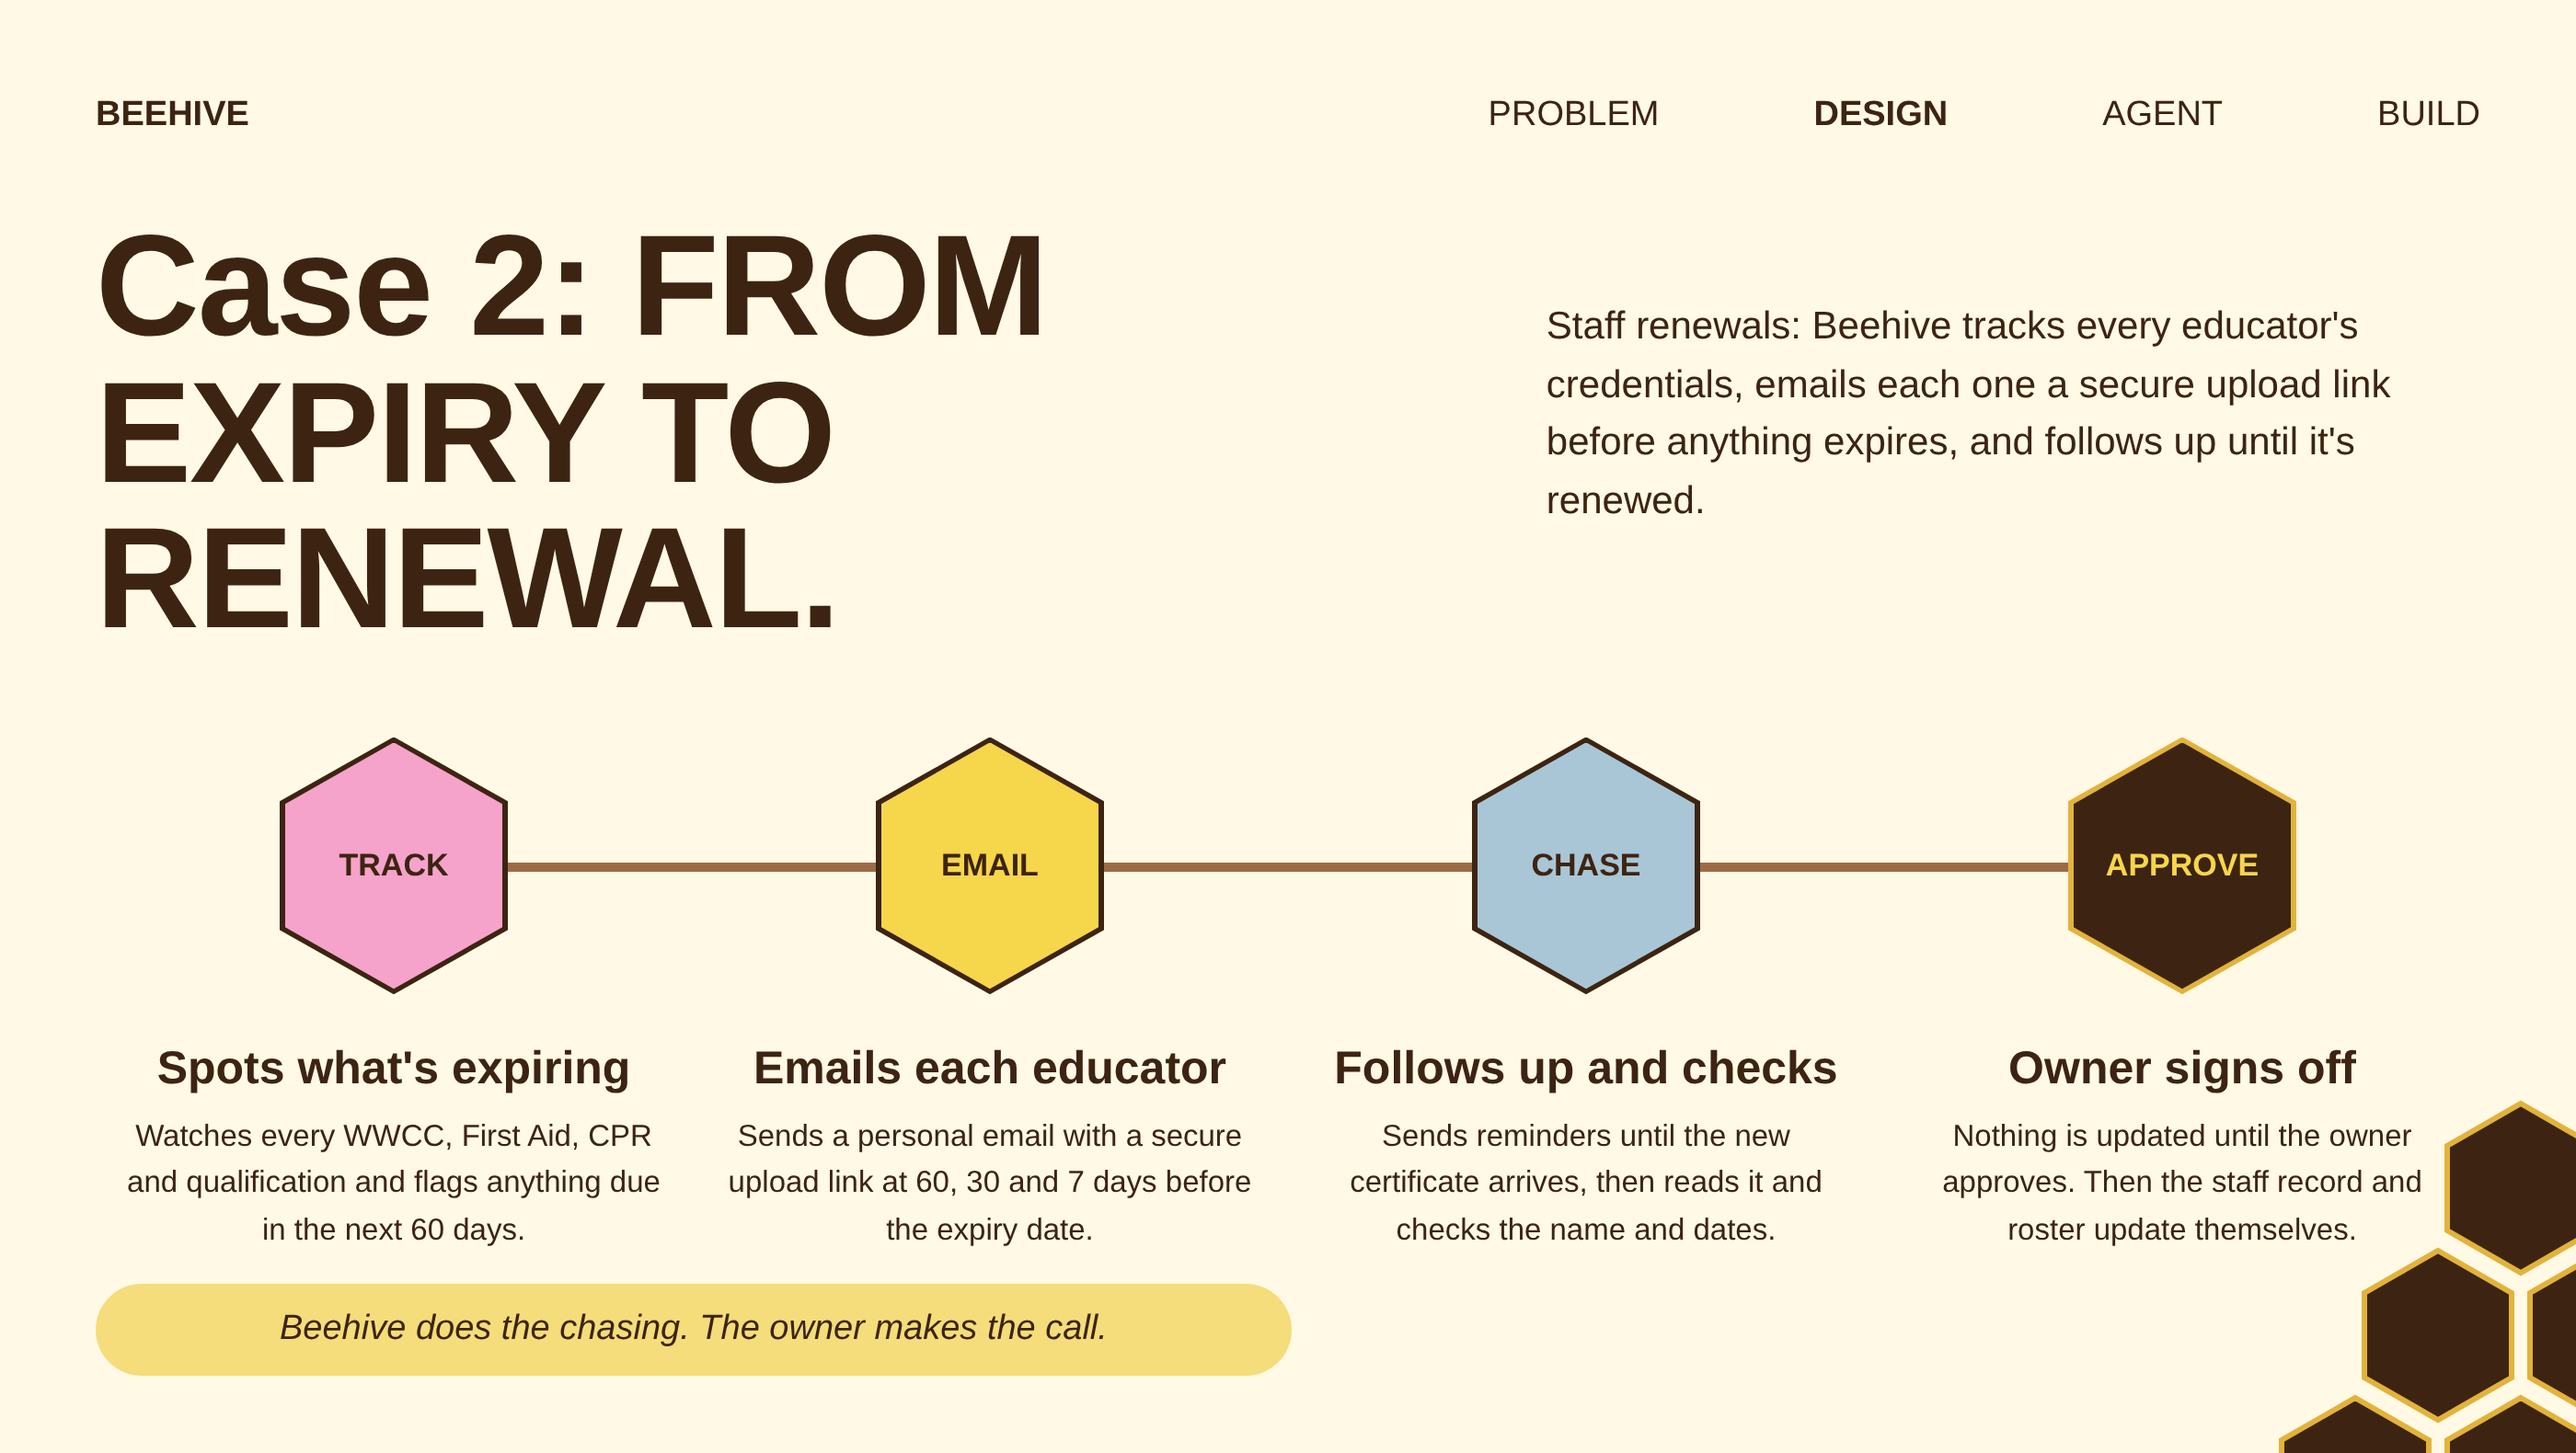
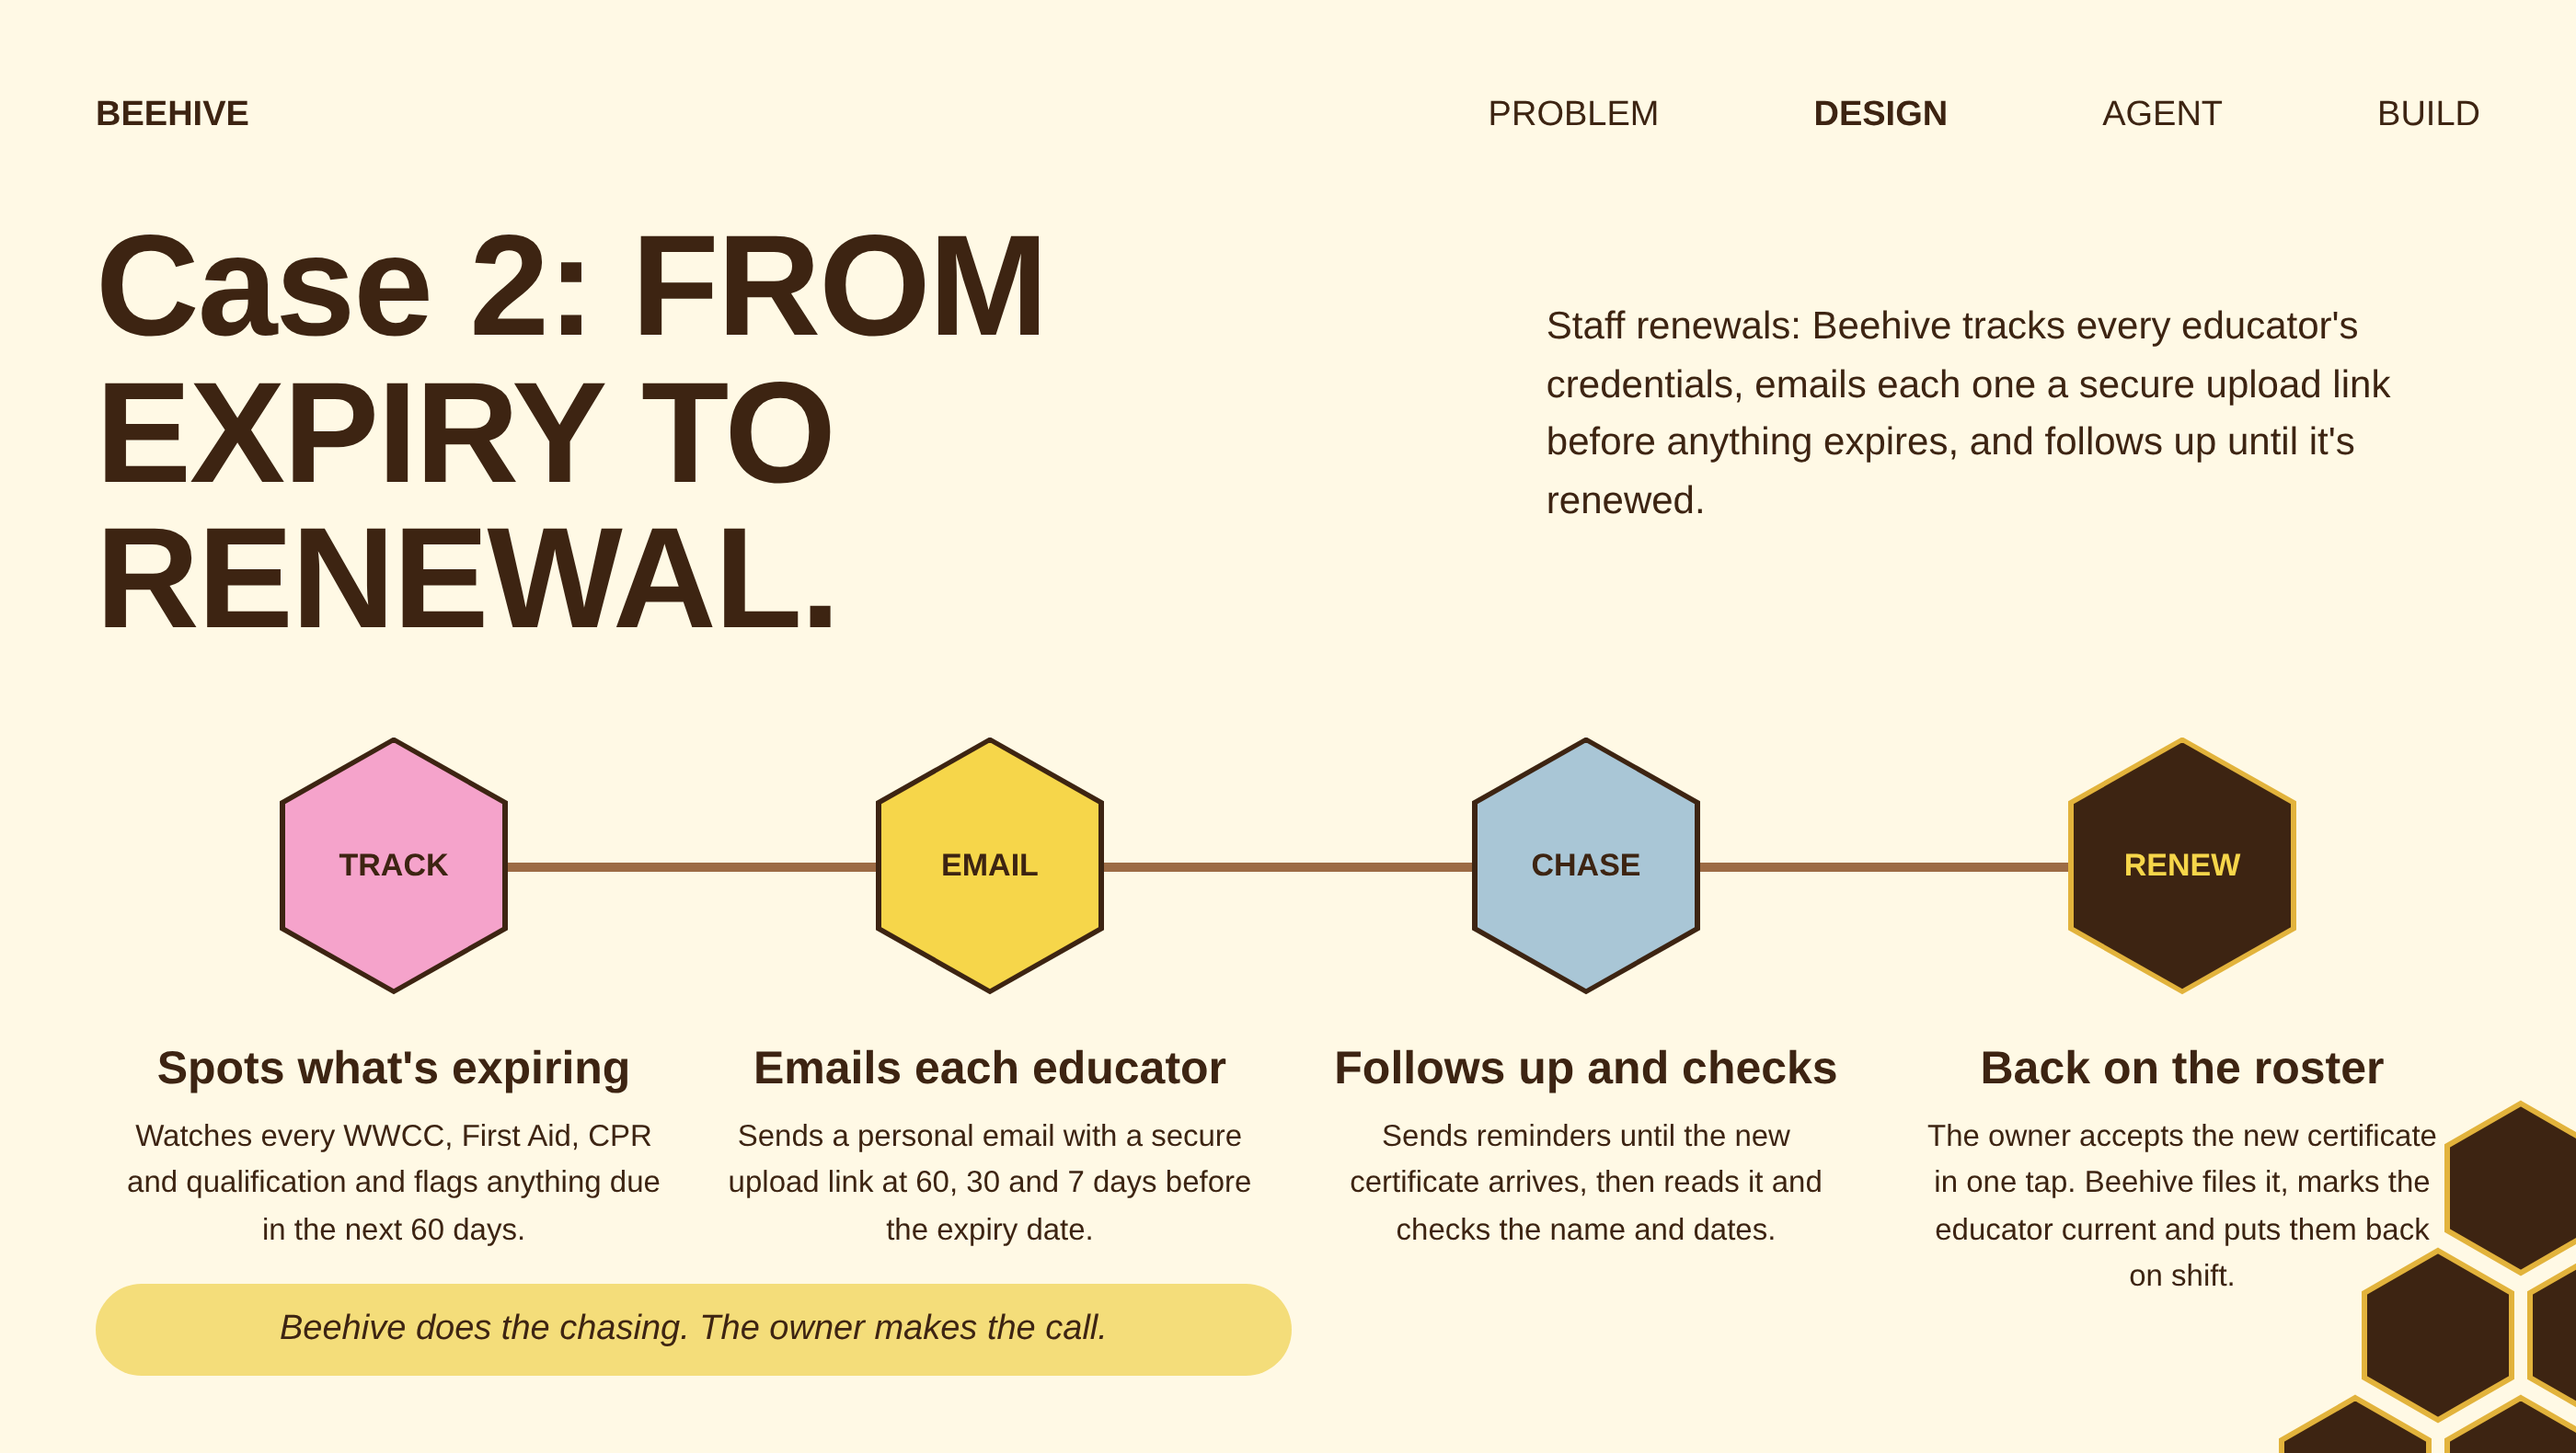
Rework final stage of staff renewal slide
Claude-Session: https://claude.ai/code/session_01M7i19ecZnnTENpHGzfWUfn

Changed region(s): [[0.7457, 0.7753, 0.9321, 0.8994], [0.7457, 0.7133, 0.9321, 0.7443], [0.8079, 0.5892, 0.87, 0.6203]]

diff --git a/docs/slides/case-staff-renewal.html b/docs/slides/case-staff-renewal.html
@@ -23,7 +23,7 @@ h3{margin:26px 0 10px;font-size:25px}p{margin:0;width:290px;font-size:16.5px;lin
 <div class="st"><div class="hx"><span style="background:#F5A3CB">TRACK</span></div><h3>Spots what's expiring</h3><p>Watches every WWCC, First Aid, CPR and qualification and flags anything due in the next 60 days.</p></div>
 <div class="st"><div class="hx"><span style="background:#F6D64A">EMAIL</span></div><h3>Emails each educator</h3><p>Sends a personal email with a secure upload link at 60, 30 and 7 days before the expiry date.</p></div>
 <div class="st"><div class="hx"><span style="background:#A9C6D6">CHASE</span></div><h3>Follows up and checks</h3><p>Sends reminders until the new certificate arrives, then reads it and checks the name and dates.</p></div>
-<div class="st"><div class="hx" style="background:#E2B33C"><span style="background:#3D2412;color:#F6D64A">APPROVE</span></div><h3>Owner signs off</h3><p>Nothing is updated until the owner approves. Then the staff record and roster update themselves.</p></div>
+<div class="st"><div class="hx" style="background:#E2B33C"><span style="background:#3D2412;color:#F6D64A">RENEW</span></div><h3>Back on the roster</h3><p>The owner accepts the new certificate in one tap. Beehive files it, marks the educator current and puts them back on shift.</p></div>
 </div>
 <div class="tag">Beehive does the chasing. The owner makes the call.</div>
 <svg class="cells" width="190" height="230" viewBox="0 0 190 230" aria-hidden="true"><g fill="#3D2412" stroke="#E2B33C" stroke-width="3">
